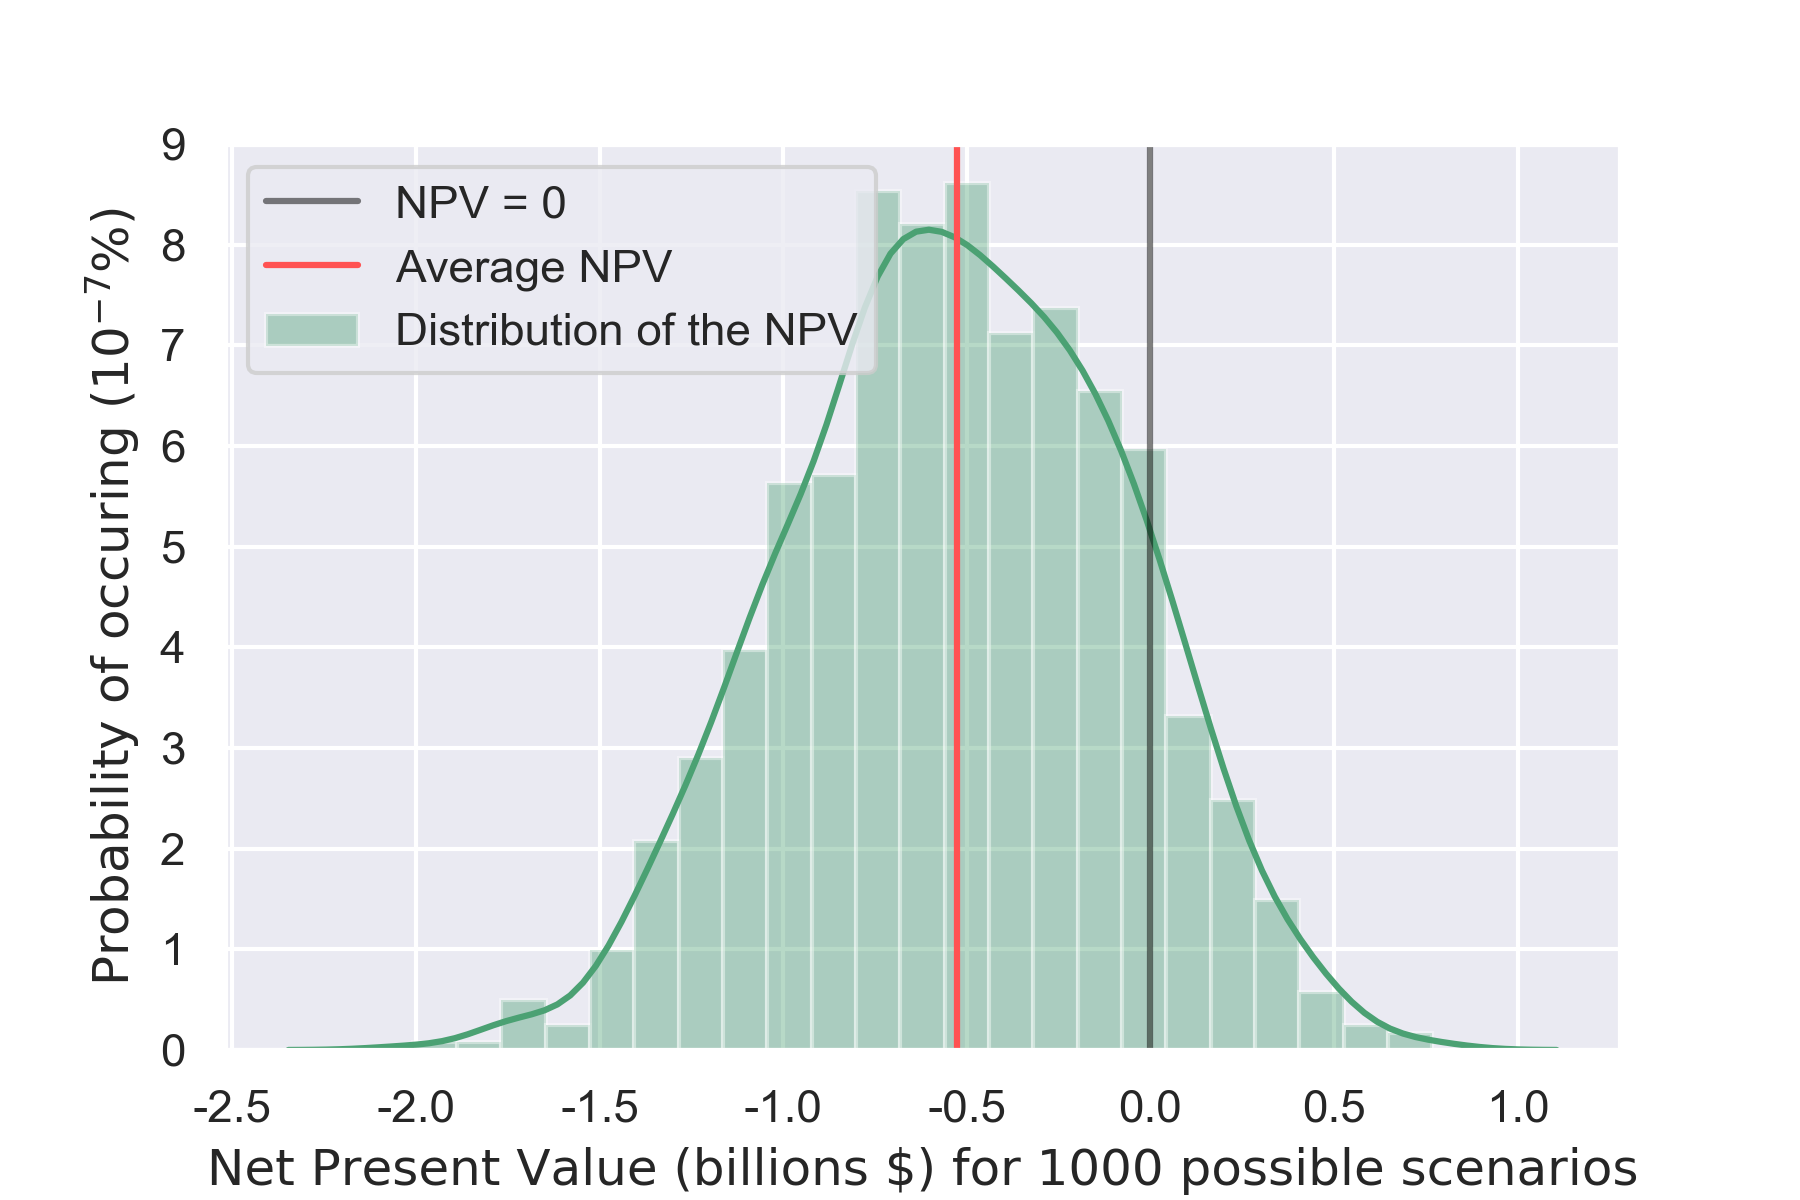
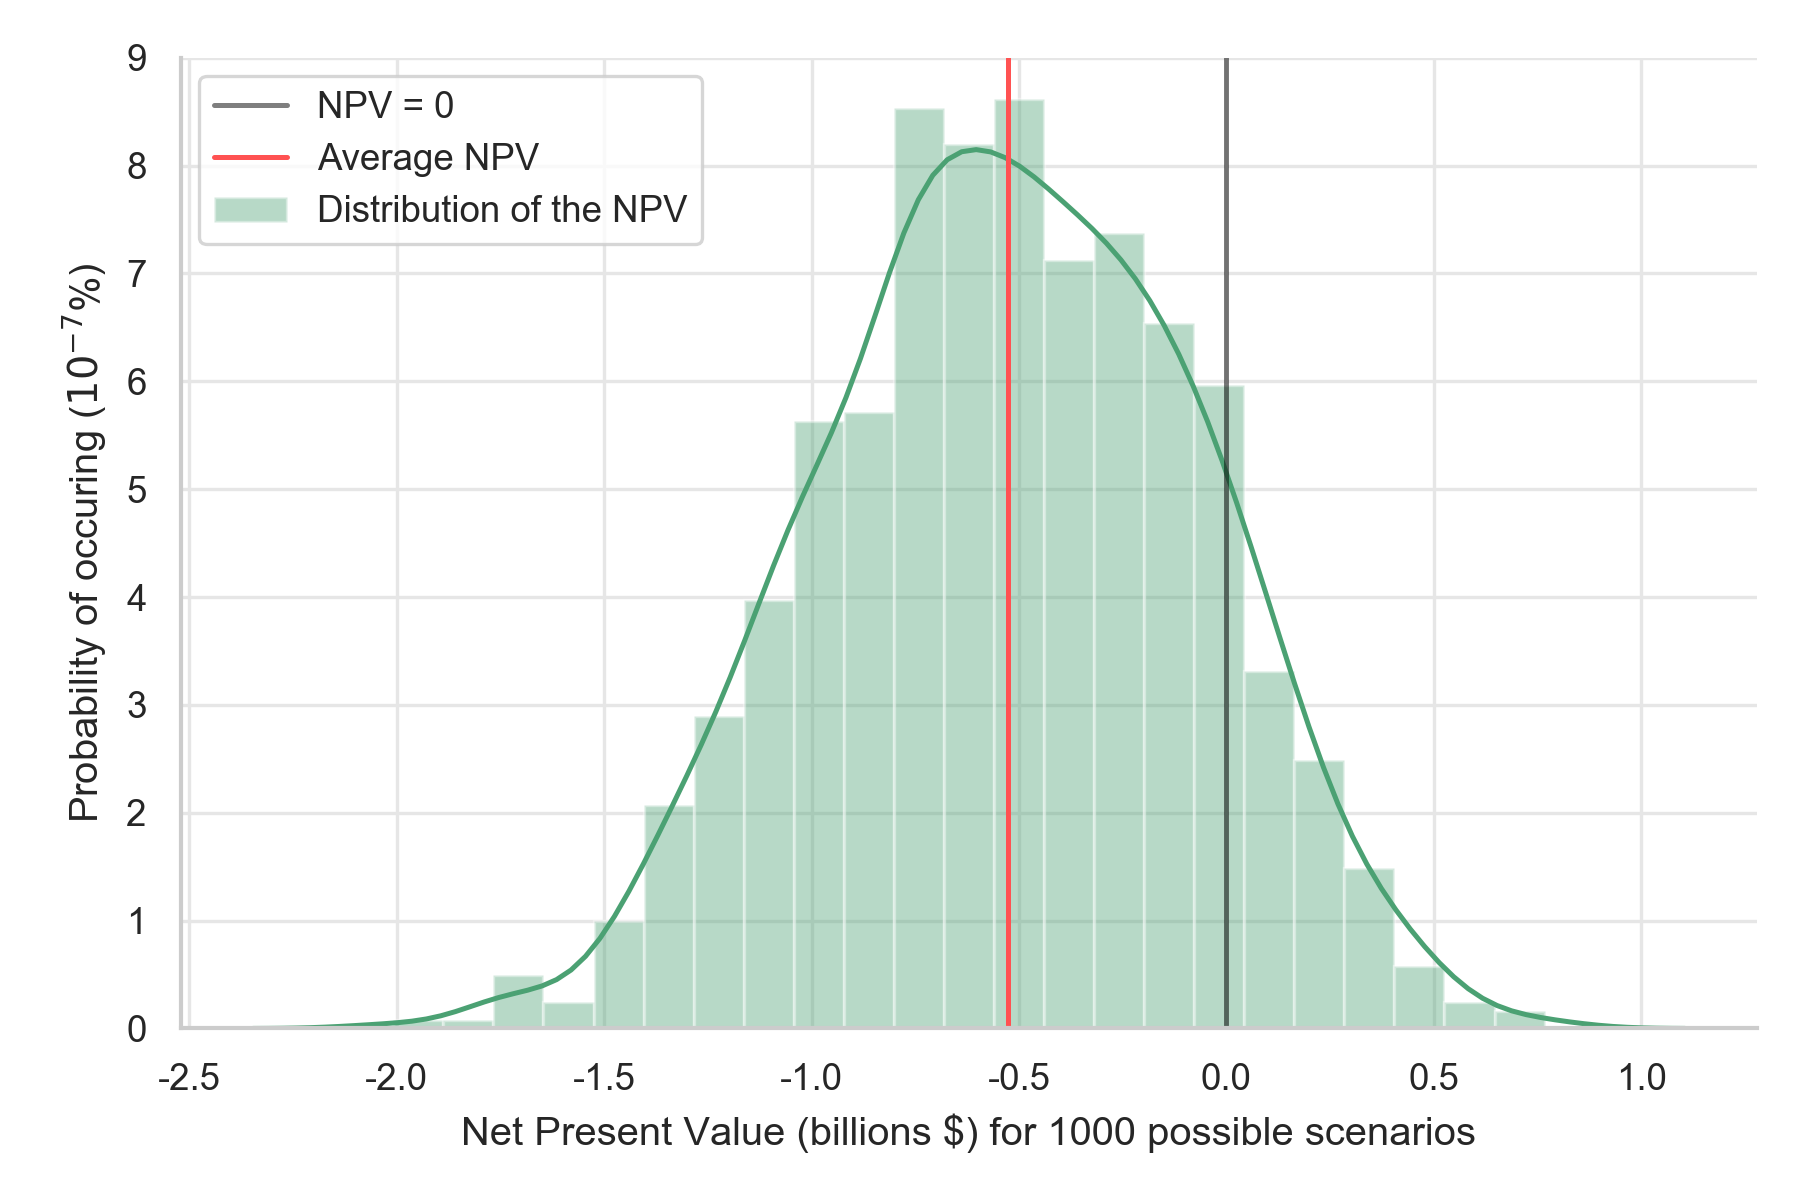
Update plots and add method for average NPV of positive scenarios

diff --git a/sensitivity_analysis.py b/sensitivity_analysis.py
@@ -5,7 +5,7 @@ from tqdm import tqdm
 import numpy as np
 import pandas as pd
 import matplotlib.pyplot as plt
-import seaborn as sns; sns.set()
+import seaborn as sns; sns.set_style("whitegrid", rc={'grid.color': '.9'})
 
 from DataFunction import generateData
 from NPVFunction import NPV_SAA
@@ -90,8 +90,9 @@ else:
     with open(data1000_path, "wb") as data:
         pickle.dump(Data1000, data)
 
-npvs = NPV_SAA(Data1000, h=height, w=width, option=option, product_thresholds=product_thresholds,
-               verbose=verbose)['NPVs']
+results = NPV_SAA(Data1000, h=height, w=width, option=option, product_thresholds=product_thresholds,
+               verbose=verbose)
+npvs = results['NPVs']
 npvs_bad = NPV_SAA(Data1000, h=1.85, w=1.06, option=option, product_thresholds=product_thresholds,
                    verbose=verbose)['NPVs']
 
@@ -102,9 +103,11 @@ ax.axvline(np.mean(npvs), color="#ff5252", label = "Average NPV")
 ax.set_xticklabels(['{:,.0f}'.format(x) for x in ax.get_xticks()/1e9])
 ax.set_yticklabels([int(round(y*1e10)) for y in ax.get_yticks()])
 ax.set(ylim=(0, 6.5e-10))
-plt.xlabel("Net Present Value (billions $) for 1000 possible scenarios", fontname="Proxima Nova")
-plt.ylabel("Probability of occuring ($10^{-7}$%)", fontname="Proxima Nova")
+plt.xlabel("Net Present Value (billions $) for 1000 possible scenarios")
+plt.ylabel("Probability of occuring ($10^{-7}$%)")
 ax.legend(loc='upper left')
+sns.despine()
+plt.tight_layout()
 plt.savefig("output/distplot_optimal.png", dpi=300)
 plt.show()
 
@@ -115,8 +118,26 @@ ax.axvline(np.mean(npvs_bad), color="#ff5252", label = "Average NPV")
 ax.set_xticklabels(['{:,.1f}'.format(x) for x in ax.get_xticks()/1e9])
 ax.set_yticklabels([int(round(y*1e10)) for y in ax.get_yticks()])
 ax.set(ylim=(0, 9e-10))
-plt.xlabel("Net Present Value (billions \$) for 1000 possible scenarios", **font)
-plt.ylabel("Probability of occuring ($10^{-7}$%)", **font)
+plt.xlabel("Net Present Value (billions \$) for 1000 possible scenarios")
+plt.ylabel("Probability of occuring ($10^{-7}$%)")
 ax.legend(loc='upper left')
+sns.despine()
+plt.tight_layout()
 plt.savefig("output/distplot_bad.png", dpi=300)
 plt.show()
+
+# Determine NPVs for the other options
+results_1 = NPV_SAA(Data1000, h=height, w=width, option=1, verbose=verbose)
+results_3 = NPV_SAA(Data1000, h=height, w=width, option=3, product_thresholds=0.005,
+                 verbose=verbose)
+
+pos_npvs_1 = [npv for npv in results_1['NPVs'] if npv > 0]
+pos_npvs_2 = [npv for npv in npvs if npv > 0]
+pos_npvs_3 = [npv for npv in results_3['NPVs'] if npv > 0]
+
+print(f"Mean NPV: {np.mean(pos_npvs_1)}, "
+      f"Probability of negative NPV: {results_1['#NegativeScenarios']/1000}")
+print(f"Mean NPV: {np.mean(pos_npvs_2)}, "
+      f"Probability of negative NPV: {results['#NegativeScenarios']/1000}")
+print(f"Mean NPV: {np.mean(pos_npvs_3)}, "
+      f"Probability of negative NPV: {results_3['#NegativeScenarios']/1000}")
